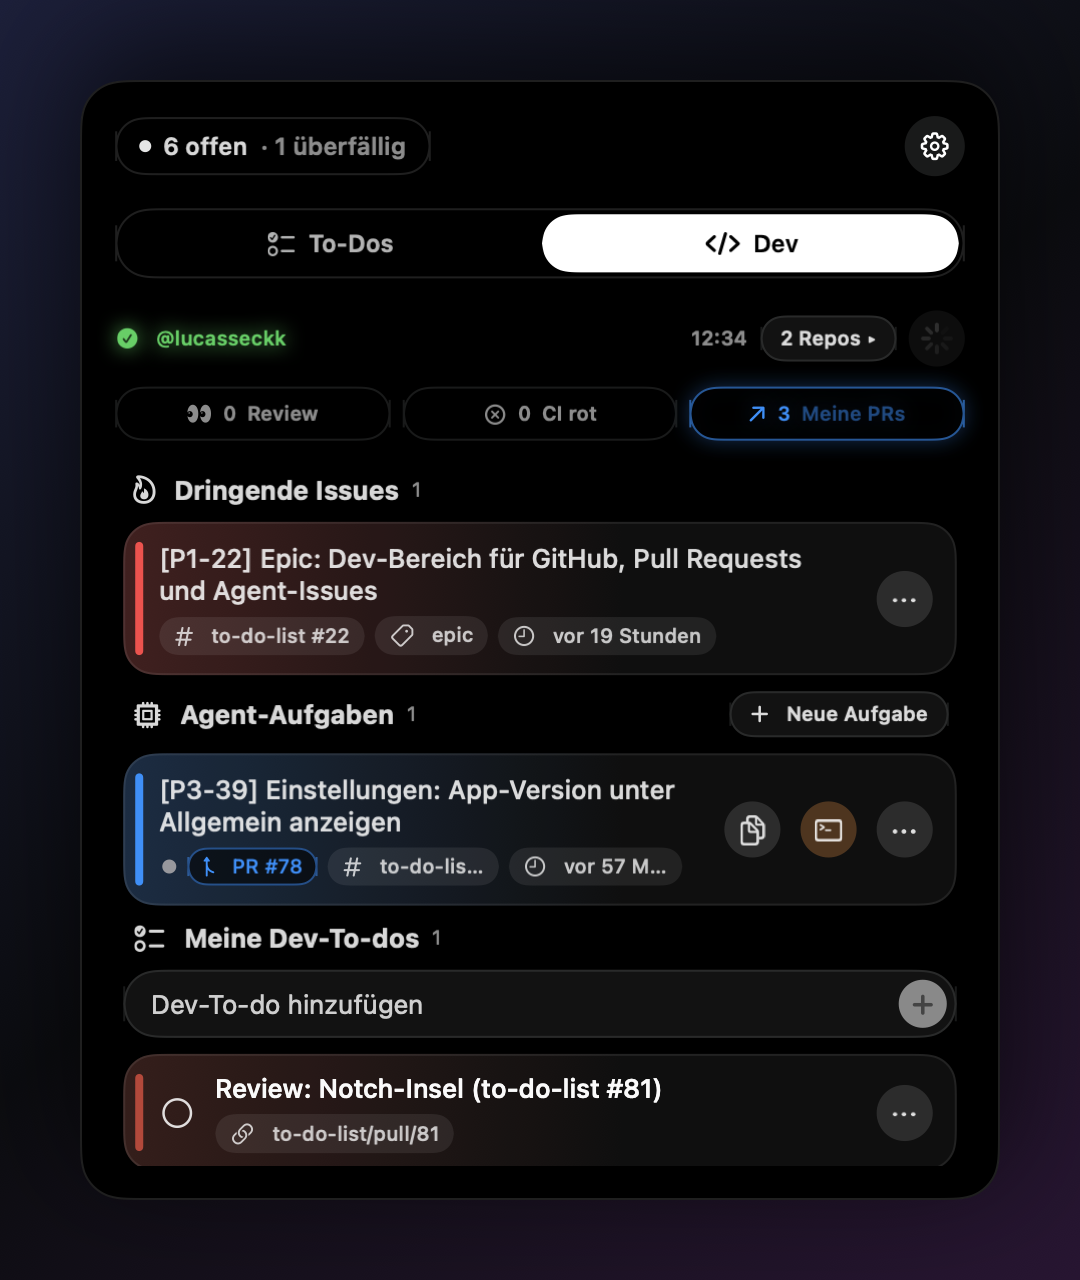
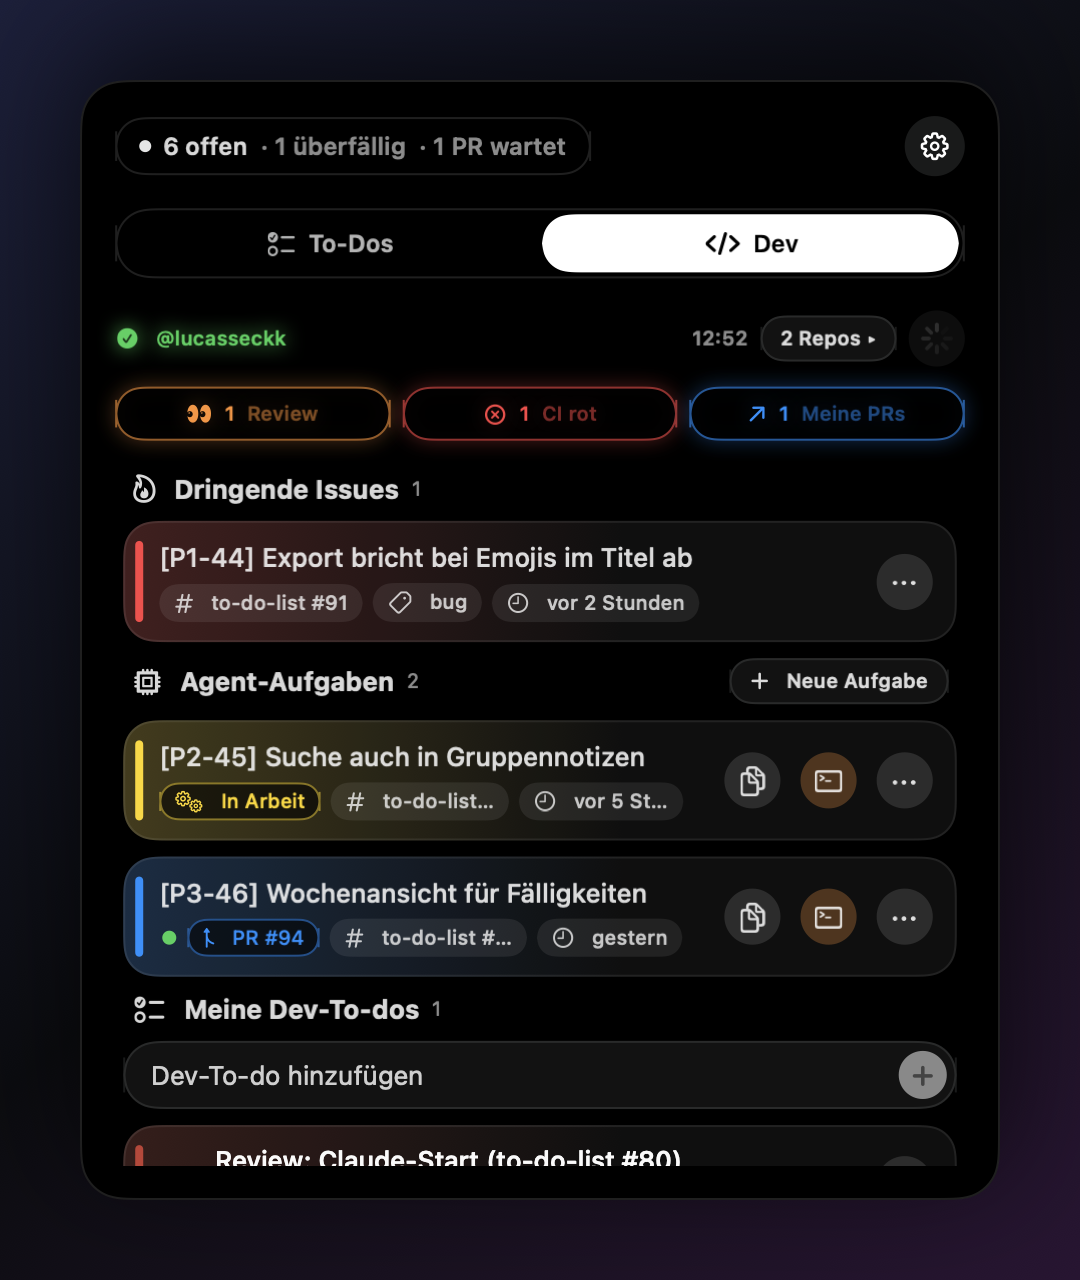
Notch-Insel wieder entfernen
Die Pille an der Notch samt Einstellung ist raus. README und Trailer
zeigen sie nicht mehr; der Dev-Screenshot nutzt jetzt Beispieldaten,
das freie Rasterfeld zeigt die Einstellungen. Nebenbei: Status-Pille
sagt bei einem Review „1 PR wartet“ statt „1 PRs warten“.

Closes #84

Claude-Session: https://claude.ai/code/session_01AViwYNWieWtw1uv1dpvFRP

diff --git a/Sources/KleineListe/App.swift b/Sources/KleineListe/App.swift
@@ -5,16 +5,12 @@ import ServiceManagement
 @main struct ToDoListApp: App {
     @NSApplicationDelegateAdaptor(NotificationAppDelegate.self) private var appDelegate
     @StateObject private var store: Store
-    @StateObject private var dev: DevStore
+    @StateObject private var dev = DevStore()
     init() {
         migratePreviousSettings()
         let store = Store()
-        let dev = DevStore()
         _store = StateObject(wrappedValue: store)
-        _dev = StateObject(wrappedValue: dev)
         NotificationManager.shared.store = store
-        NotchIsland.store = store
-        NotchIsland.dev = dev
     }
     var body: some Scene {
         MenuBarExtra {
@@ -257,7 +253,10 @@ struct Panel: View {
             Text(store.count == 0 ? "Alles erledigt" : "\(store.count) offen")
             Group {
                 if overdueCount > 0 { Text("· \(overdueCount) überfällig") }
-                if !dev.pullRequests(in: .review).isEmpty { Text("· \(dev.pullRequests(in: .review).count) PRs warten") }
+                if !dev.pullRequests(in: .review).isEmpty {
+                    let reviews = dev.pullRequests(in: .review).count
+                    Text(reviews == 1 ? "· 1 PR wartet" : "· \(reviews) PRs warten")
+                }
             }
             .foregroundStyle(.secondary)
         }
@@ -772,7 +771,6 @@ struct SettingsView: View {
     @State private var launchAtLogin = SMAppService.mainApp.status == .enabled
     @State private var launchHint: String?
     @AppStorage("globalShortcut") private var globalShortcut = true
-    @AppStorage("notchIsland") private var notchIsland = false
     @AppStorage("manualSort") private var manualSort = false
     @AppStorage("highPriorityColor") private var highPriorityColorHex = "#C24033"
     @AppStorage("mediumPriorityColor") private var mediumPriorityColorHex = "#E0A63D"
@@ -807,8 +805,6 @@ struct SettingsView: View {
                                 Toggle("Beim Anmelden automatisch starten", isOn: Binding(get: { launchAtLogin }, set: setLaunchAtLogin))
                                 Toggle("Panel überall mit \(GlobalShortcut.label) öffnen", isOn: $globalShortcut)
                                     .onChange(of: globalShortcut) { _, enabled in GlobalShortcut.setEnabled(enabled) }
-                                Toggle("Insel an der Notch zeigen", isOn: $notchIsland)
-                                    .onChange(of: notchIsland) { _, enabled in NotchIsland.setEnabled(enabled) }
                                 Text("Im Panel: ⌘N neues To-do · ↑↓ zwischen Karten · Return umbenennen · Leertaste abhaken · Esc abbrechen")
                                     .font(.caption)
                                     .foregroundStyle(.secondary)

diff --git a/Sources/KleineListe/Store.swift b/Sources/KleineListe/Store.swift
@@ -323,7 +323,7 @@ struct UndoStep: Identifiable {
     }
     var count: Int { todos.filter { !$0.done && !$0.isDev }.count }
     var overdueCount: Int { openTodos.filter { $0.due.map { $0 < Date() } ?? false }.count }
-    /// Open, non-archived, non-dev to-dos; counted in the panel header and the notch island (#50).
+    /// Open, non-archived, non-dev to-dos; counted in the panel header.
     var openTodos: [Todo] { todos.filter { !$0.done && !$0.archived && !$0.isDev } }
     func save(_ item: Todo) {
         guard writable else { return }

diff --git a/Sources/KleineListe/Notifications.swift b/Sources/KleineListe/Notifications.swift
@@ -6,7 +6,6 @@ final class NotificationAppDelegate: NSObject, NSApplicationDelegate {
     func applicationDidFinishLaunching(_ notification: Notification) {
         NotificationManager.shared.configure()
         GlobalShortcut.setEnabled(UserDefaults.standard.object(forKey: "globalShortcut") as? Bool ?? true)
-        NotchIsland.setEnabled(UserDefaults.standard.bool(forKey: "notchIsland"))
     }
 }
 

diff --git a/README.md b/README.md
@@ -4,7 +4,7 @@
 
 # To-Do List
 
-**Uni-Aufgaben und GitHub-Arbeit an einem Ort – als Insel in deiner Menüleiste.**
+**Uni-Aufgaben und GitHub-Arbeit an einem Ort – direkt in deiner Menüleiste.**
 
 [![macOS 14+](https://img.shields.io/badge/macOS-14%2B-000000?style=flat-square&logo=apple&logoColor=white)](#installation)
 [![Swift 6](https://img.shields.io/badge/Swift-6-F05138?style=flat-square&logo=swift&logoColor=white)](Package.swift)
@@ -14,7 +14,7 @@
 [![Claude Code](https://img.shields.io/badge/Agents-Claude%20Code-D97757?style=flat-square&logo=anthropic&logoColor=white)](#agent-aufgaben)
 [![Daten lokal](https://img.shields.io/badge/Daten-lokal-8E8E93?style=flat-square&logo=icloud&logoColor=white)](#daten-und-datenschutz)
 
-<img src="docs/images/trailer.gif" width="860" alt="Trailer: To-Dos, Editor, Dev-Bereich, Agent-Aufgaben und Notch-Insel">
+<img src="docs/images/trailer.gif" width="860" alt="Trailer: To-Dos, Editor, Dev-Bereich und Agent-Aufgaben">
 
 [Features](#features) · [Installation](#installation) · [Dev-Bereich](#dev-bereich) · [Agent-Aufgaben](#agent-aufgaben) · [Tastatur](#tastatur) · [Datenschutz](#daten-und-datenschutz)
 
@@ -46,9 +46,9 @@ Prioritäten (auch eigene, Stufe 1–5), Fälligkeiten, Gruppen mit Farbe und No
 Reviews, rote CI, eigene PRs, dringende Issues und Agent-Aufgaben – live über die GitHub CLI. Mergen mit Zwei-Klick-Bestätigung, ohne dass die App je ein Token sieht.
 </td>
 <td width="50%" valign="top">
-<img src="docs/images/island.png" alt="Notch-Insel eingeklappt und aufgeklappt">
-<h3>Insel an der Notch</h3>
-Optional hängt eine Pille an der Notch: „6 offen · 1 PR wartet“. Beim Darüberfahren klappt sie auf und zeigt das nächste fällige To-do, ein Klick öffnet das Panel.
+<img src="docs/images/settings.png" alt="Einstellungen mit Autostart, Tastenkürzel und Sortierung">
+<h3>Einstellbar, nicht überladen</h3>
+Autostart beim Anmelden, globales Tastenkürzel, Sortierung, Gruppen, eigene Prioritäten und Farben, Erinnerungen je Priorität sowie Export und Import.
 </td>
 </tr>
 </table>
@@ -155,7 +155,6 @@ Alles bleibt auf deinem Mac:
 | `Sources/KleineListe/Store.swift` | Datenmodell, Filter, Wiederholungen, Speicherung, Rückgängig, Export/Import |
 | `Sources/KleineListe/Dev.swift` | Dev-Bereich: PRs, Issues, Agent-Aufgaben, Claude-Start, Dev-To-dos |
 | `Sources/KleineListe/GitHub.swift` | GitHub CLI, PR- und Issue-Parsing, CI-Status, Claude-Startskript |
-| `Sources/KleineListe/NotchIsland.swift` | Insel an der Notch |
 | `Sources/KleineListe/Island.swift` | Gemeinsamer Island-Look (Pillen, Karten, Schalter, Animation) |
 | `Sources/KleineListe/Notifications.swift` | Mitteilungen, Erinnerungen, Snooze |
 | `Sources/KleineListe/GlobalShortcut.swift` | Systemweites <kbd>⌃</kbd><kbd>⌥</kbd><kbd>T</kbd> |
